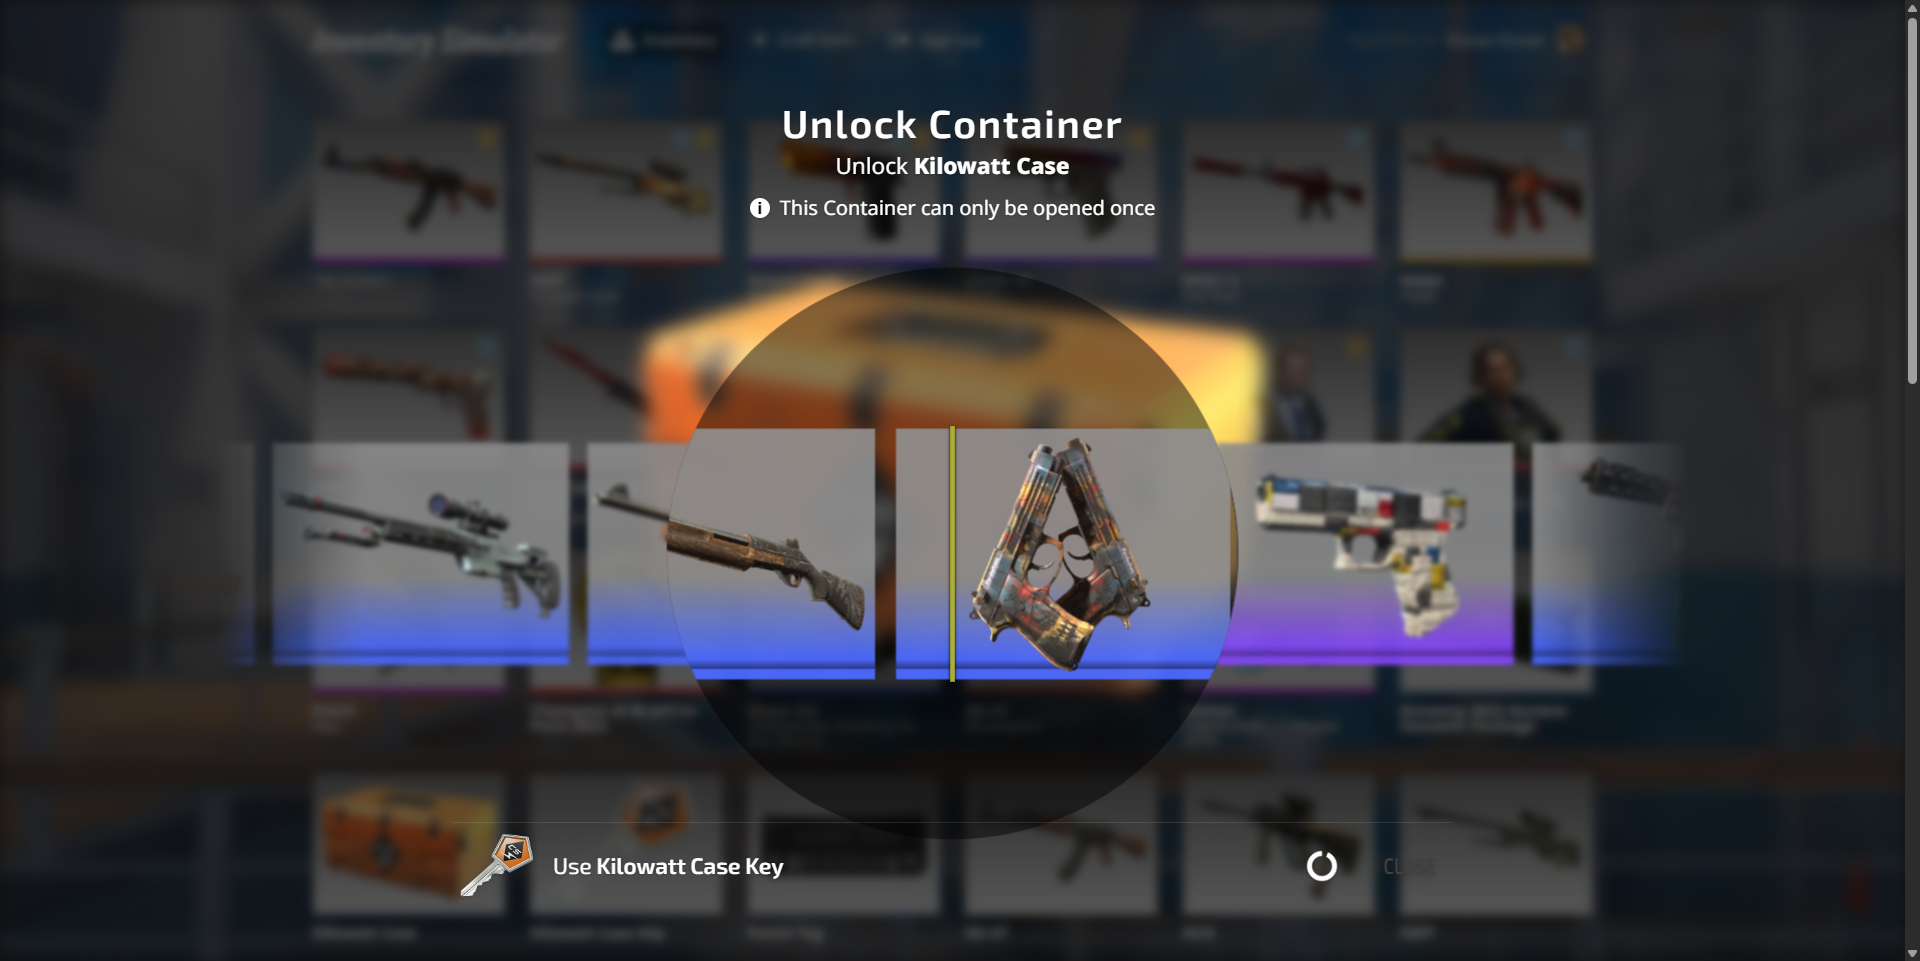
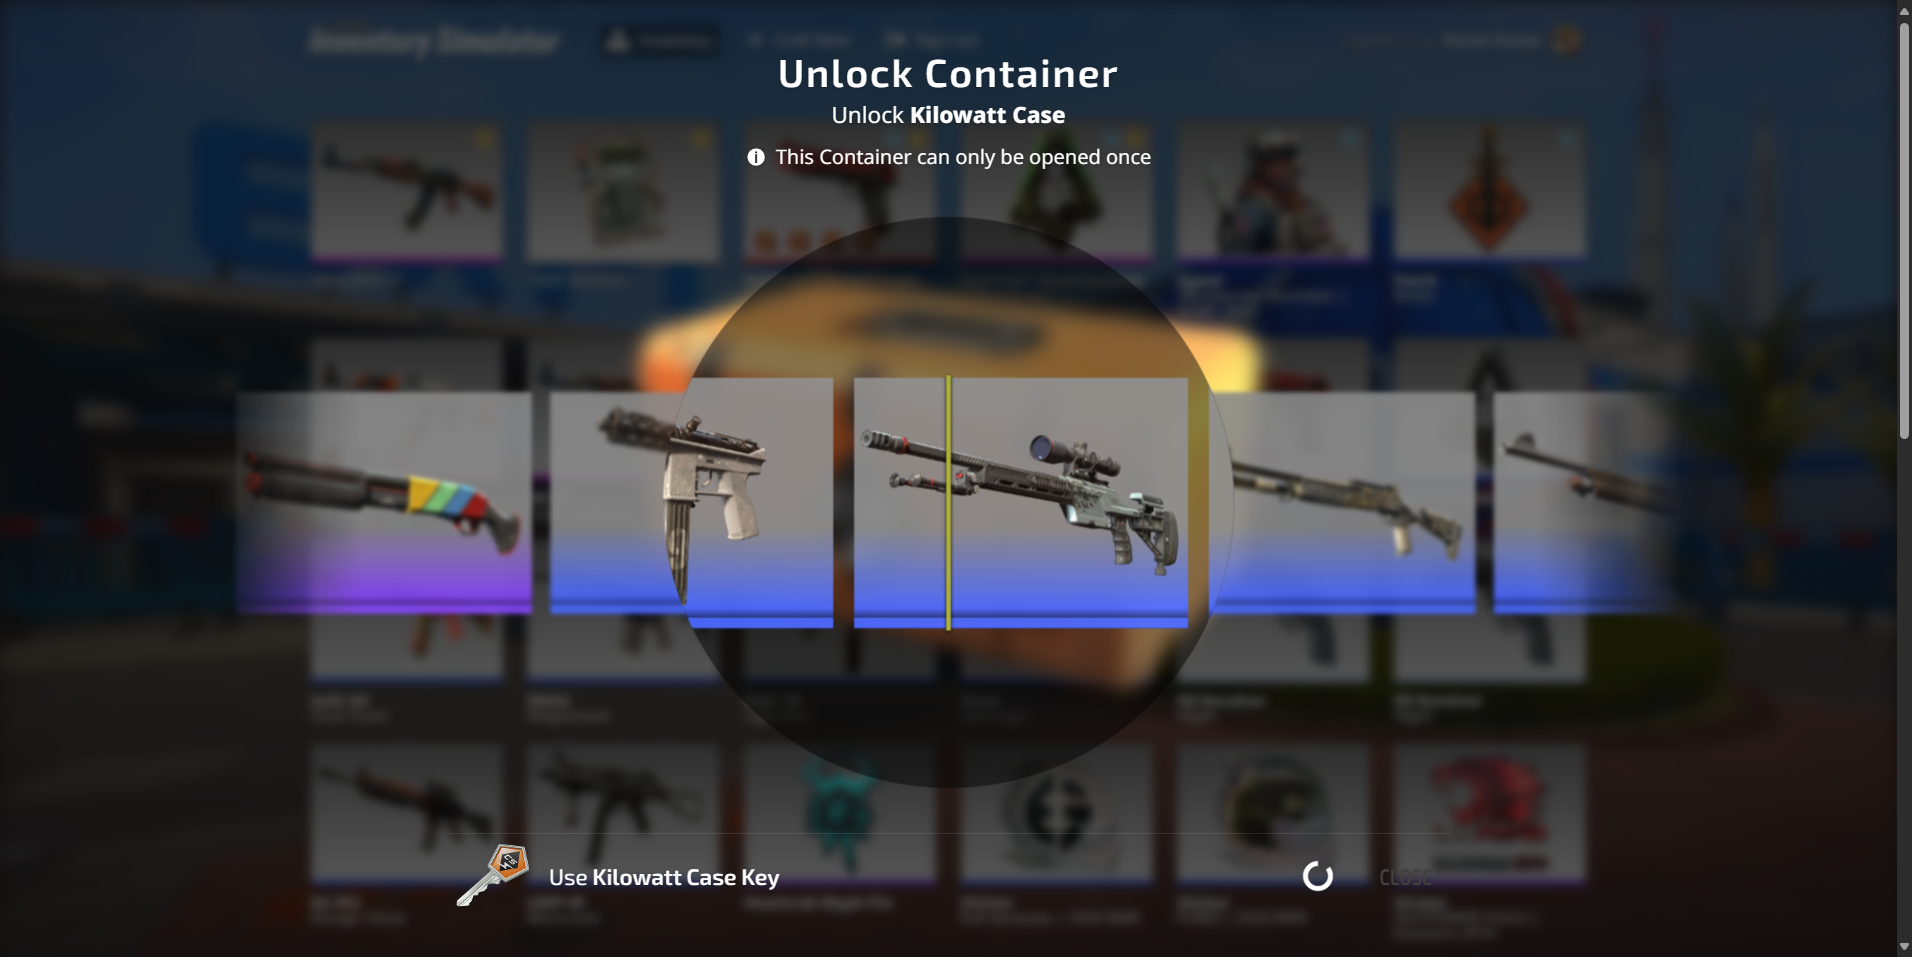
feat(unlock-case): improve visuals

diff --git a/app/components/unlock-case-container.tsx b/app/components/unlock-case-container.tsx
@@ -53,44 +53,44 @@ export function UnlockCaseContainer({
           isDisplaying={isDisplaying}
           items={items}
         />
-      </div>
-      <div className="fixed bottom-12 left-0 w-full">
-        <UnlockCaseContainerContents
-          caseItem={caseItem}
-          hideCaseContents={hideCaseContents}
-        />
-        <UseItemFooter
-          left={
-            keyItem !== undefined && (
-              <div className="flex items-center gap-2 font-display text-lg">
-                <CSItemImage className="h-14" item={keyItem} />
-                <span>
-                  {translate("CaseUse")} <strong>{keyItem.name}</strong>
-                </span>
-              </div>
-            )
-          }
-          right={
-            <>
-              {canUnlock ? (
+        <div className="relative">
+          <UnlockCaseContainerContents
+            caseItem={caseItem}
+            hideCaseContents={hideCaseContents}
+          />
+          <UseItemFooter
+            left={
+              keyItem !== undefined && (
+                <div className="flex items-center gap-2 font-display text-lg">
+                  <CSItemImage className="h-14" item={keyItem} />
+                  <span>
+                    {translate("CaseUse")} <strong>{keyItem.name}</strong>
+                  </span>
+                </div>
+              )
+            }
+            right={
+              <>
+                {canUnlock ? (
+                  <ModalButton
+                    children={translate("CaseUnlockContainer")}
+                    disabled={!canUnlock}
+                    onClick={onUnlock}
+                    variant="primary"
+                  />
+                ) : (
+                  <FillSpinner className="mx-4" />
+                )}
                 <ModalButton
-                  children={translate("CaseUnlockContainer")}
+                  children={translate("CaseClose")}
                   disabled={!canUnlock}
-                  onClick={onUnlock}
-                  variant="primary"
+                  onClick={onClose}
+                  variant="secondary"
                 />
-              ) : (
-                <FillSpinner className="mx-4" />
-              )}
-              <ModalButton
-                children={translate("CaseClose")}
-                disabled={!canUnlock}
-                onClick={onClose}
-                variant="secondary"
-              />
-            </>
-          }
-        />
+              </>
+            }
+          />
+        </div>
       </div>
     </>
   );

diff --git a/app/components/unlock-case-container-contents.tsx b/app/components/unlock-case-container-contents.tsx
@@ -7,6 +7,7 @@ import { CS_Item, CS_listCaseContents } from "@ianlucas/cslib";
 import { CSItem } from "./cs-item";
 import { CaseSpecialItem } from "./case-special-item";
 import { useTranslation } from "~/hooks/use-translation";
+import { ElementRef, useEffect, useRef, useState } from "react";
 
 export function UnlockCaseContainerContents({
   caseItem,
@@ -15,25 +16,41 @@ export function UnlockCaseContainerContents({
   caseItem: CS_Item;
   hideCaseContents: boolean;
 }) {
+  const [translateY, setTranslateY] = useState(0);
+  const [opacity, setOpacity] = useState(0);
   const translate = useTranslation();
+  const ref = useRef<ElementRef<"div">>(null);
+
+  useEffect(() => {
+    setOpacity(1);
+    if (hideCaseContents) {
+      setTranslateY(9999);
+    } else {
+      setTranslateY(ref.current !== null ? -ref.current.clientHeight : 0);
+    }
+  }, [hideCaseContents, ref]);
 
   return (
     <div
-      className="m-auto max-w-[1024px] rounded [transition:all_cubic-bezier(0.4,0,0.2,1)_1s]"
+      className="absolute w-full -translate-y-full rounded [transition:all_cubic-bezier(0.4,0,0.2,1)_1s]"
       style={{
-        transform: `translateY(${hideCaseContents ? 9999 : 0}px)`
+        transform: `translateY(${translateY}px)`,
+        opacity
       }}
+      ref={ref}
     >
-      <h2 className="my-2">{translate("CaseContainsOne")}</h2>
-      <div className="flex h-[320px] flex-wrap gap-3 overflow-y-scroll pb-4">
-        {[
-          ...CS_listCaseContents(caseItem, true).map((item, index) => (
-            <CSItem key={index} item={item} />
-          )),
-          caseItem.specials !== undefined && (
-            <CaseSpecialItem key={-1} caseItem={caseItem} />
-          )
-        ]}
+      <div className="m-auto max-w-[1024px]">
+        <h2 className="my-2">{translate("CaseContainsOne")}</h2>
+        <div className="flex h-[320px] flex-wrap gap-3 overflow-y-scroll pb-4">
+          {[
+            ...CS_listCaseContents(caseItem, true).map((item, index) => (
+              <CSItem key={index} item={item} />
+            )),
+            caseItem.specials !== undefined && (
+              <CaseSpecialItem key={-1} caseItem={caseItem} />
+            )
+          ]}
+        </div>
       </div>
     </div>
   );
